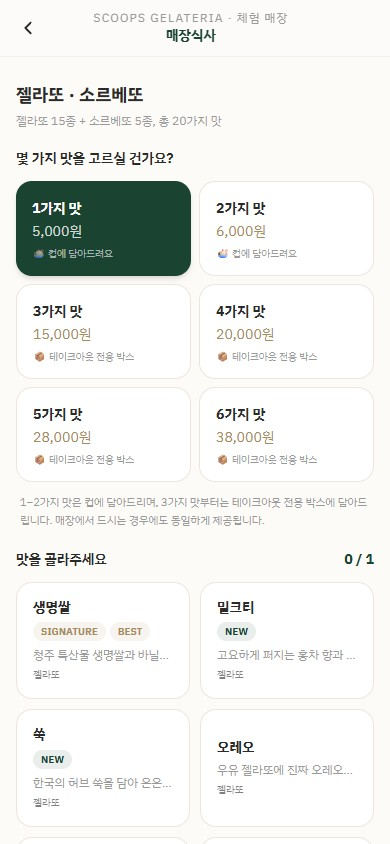
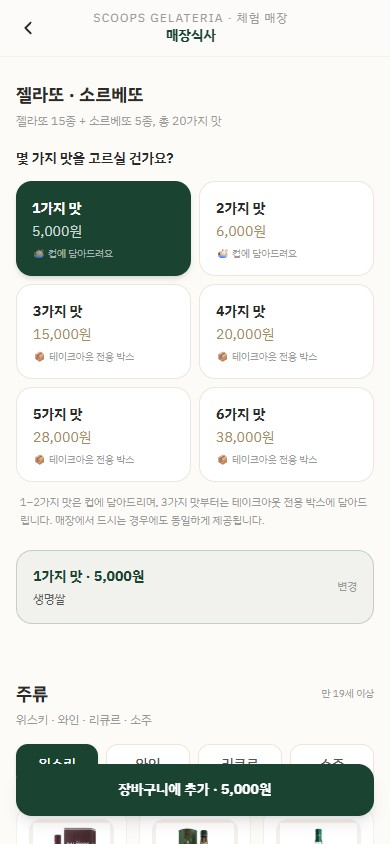
fix: 데모 캡쳐 6장 전부 다른 화면 — 주문완료 포함
1.매장선택 2.메뉴선택 3.맛고르기 4.장바구니팝업 5.주문내역 6.주문완료

diff --git a/src/app/franchise/page.tsx b/src/app/franchise/page.tsx
@@ -101,11 +101,11 @@ export default function FranchisePage() {
           <motion.div variants={fadeUp} className="grid grid-cols-3 md:grid-cols-6 gap-3 mb-8">
             {[
               { step: "01", title: "매장식사 · 포장", img: "/images/demo/step1.jpg" },
-              { step: "02", title: "젤라또 메뉴", img: "/images/demo/step2.jpg" },
-              { step: "03", title: "맛 선택", img: "/images/demo/step3.jpg" },
-              { step: "04", title: "맛 고르기", img: "/images/demo/step4.jpg" },
-              { step: "05", title: "장바구니 추가", img: "/images/demo/step5.jpg" },
-              { step: "06", title: "주류 메뉴", img: "/images/demo/step6.jpg" },
+              { step: "02", title: "메뉴 선택", img: "/images/demo/step2.jpg" },
+              { step: "03", title: "맛 고르기", img: "/images/demo/step3.jpg" },
+              { step: "04", title: "장바구니 추가", img: "/images/demo/step4.jpg" },
+              { step: "05", title: "주문 내역", img: "/images/demo/step5.jpg" },
+              { step: "06", title: "주문 완료", img: "/images/demo/step6.jpg" },
             ].map((item, i) => (
               <motion.div
                 key={i}
